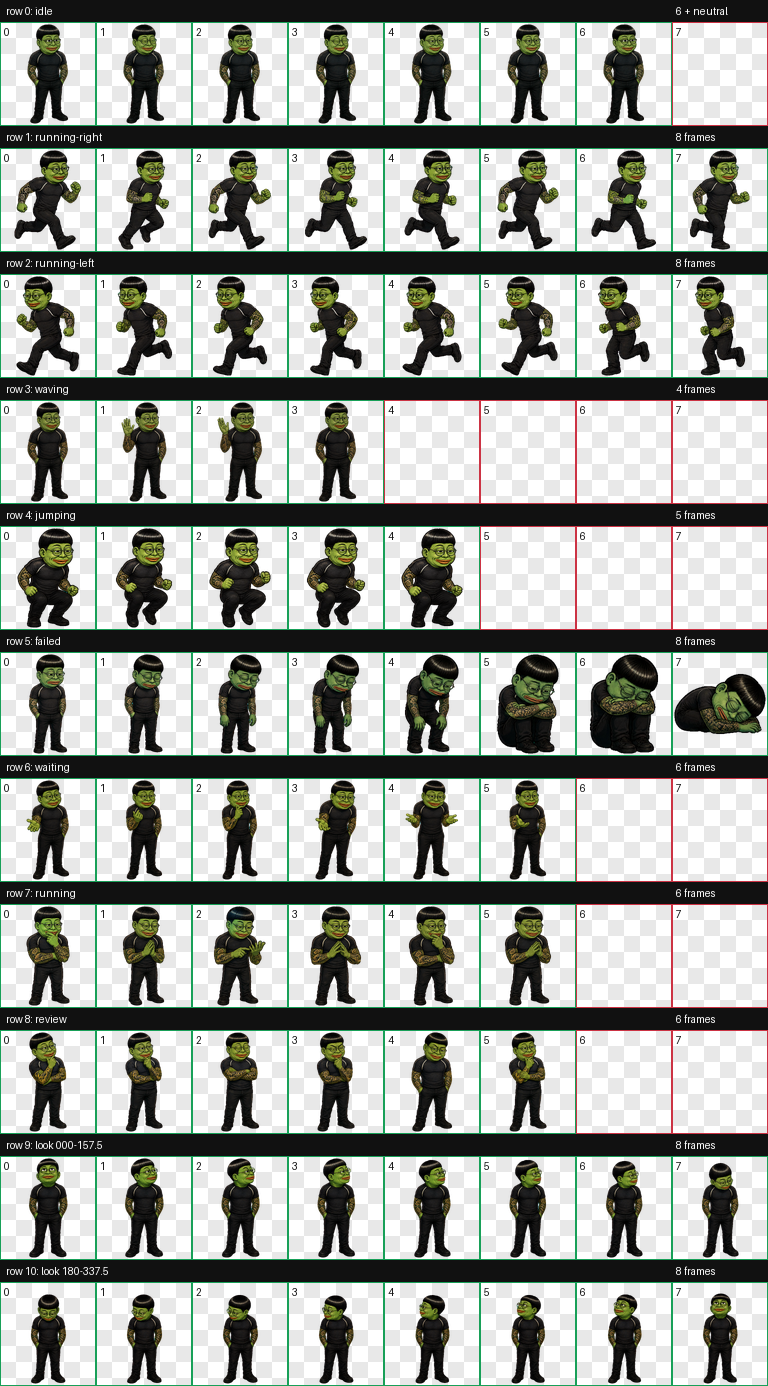
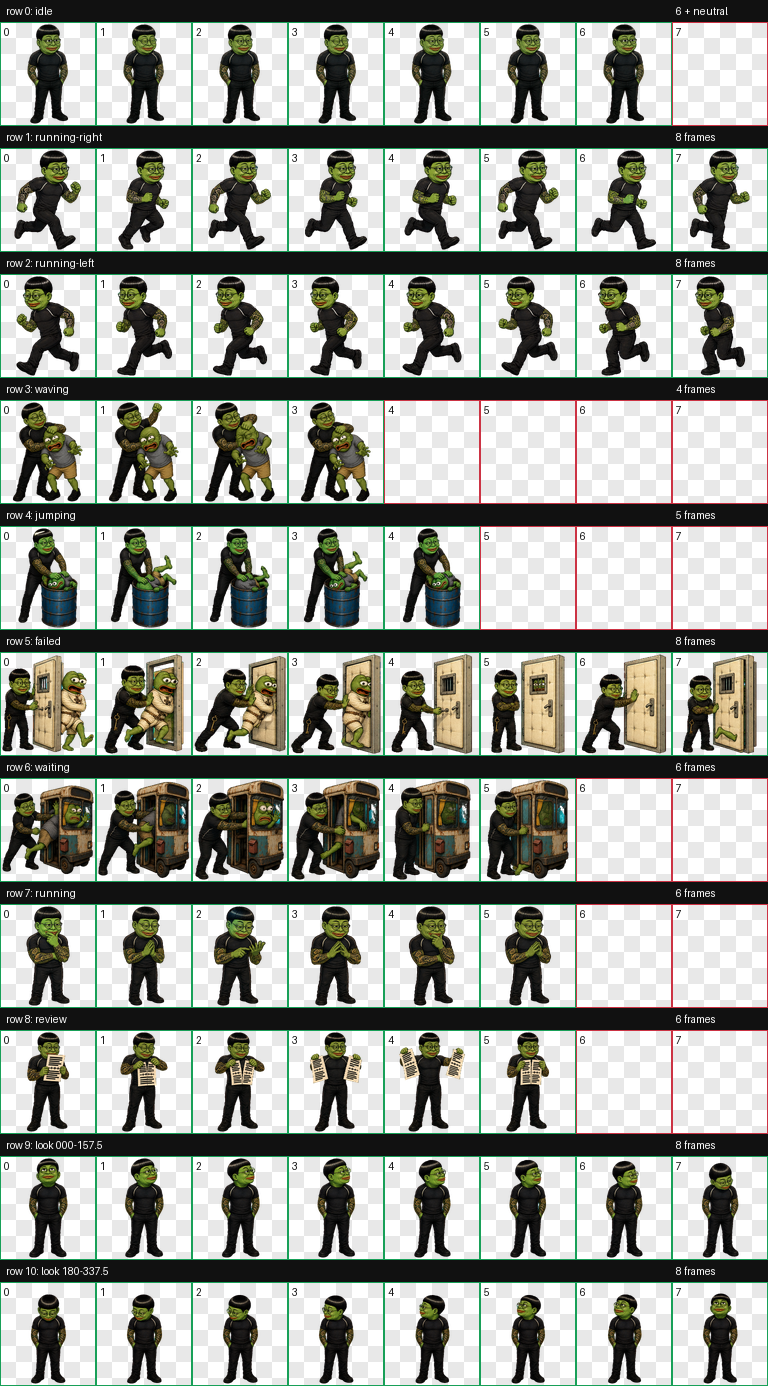
Add Jaepe gag animations

diff --git a/README.md b/README.md
@@ -4,6 +4,16 @@ Jaepe is a fan-made animated pet for Codex: a green frog caricature with a blunt
 
 ![Jaepe idle animation](assets/jaepe-idle.gif)
 
+## Gag animation loops
+
+| Codex state | Jaepe animation |
+| --- | --- |
+| `waving` | Noogie<br>![Jaepe giving a noogie](assets/jaepe-noogie.gif) |
+| `jumping` | Barrel stuffing<br>![Jaepe stuffing Pepe into a barrel](assets/jaepe-barrel.gif) |
+| `failed` | Straitjacketed hospital door<br>![Jaepe pushing Pepe through an institutional door](assets/jaepe-straitjacket.gif) |
+| `waiting` | Discarded-bus apartment<br>![Jaepe stuffing Pepe into a bus apartment](assets/jaepe-bus.gif) |
+| `review` | Censored transcript tearing<br>![Jaepe tearing a censored transcript](assets/jaepe-jjij.gif) |
+
 ## Install
 
 Clone or download this repository, then copy the installable package into the local Codex pets directory:
@@ -21,8 +31,8 @@ In Codex, open **Settings → Pets**, choose **Refresh**, select **Jaepe**, and 
 - Sprite contract: v2
 - Atlas: 1536 × 2288 WebP
 - Grid: 8 × 11 cells at 192 × 208 pixels
-- Animation: nine standard state rows plus 16 clockwise look directions
[1 lines of base64/hex data omitted]
+- Animation: nine standard state rows, including five custom gag loops, plus 16 clockwise look directions
[1 lines of base64/hex data omitted]
 
 The complete animation and gaze checks are available in [the contact sheet](docs/contact-sheet.png) and [the direction sheet](docs/direction-sheet.png).
 
